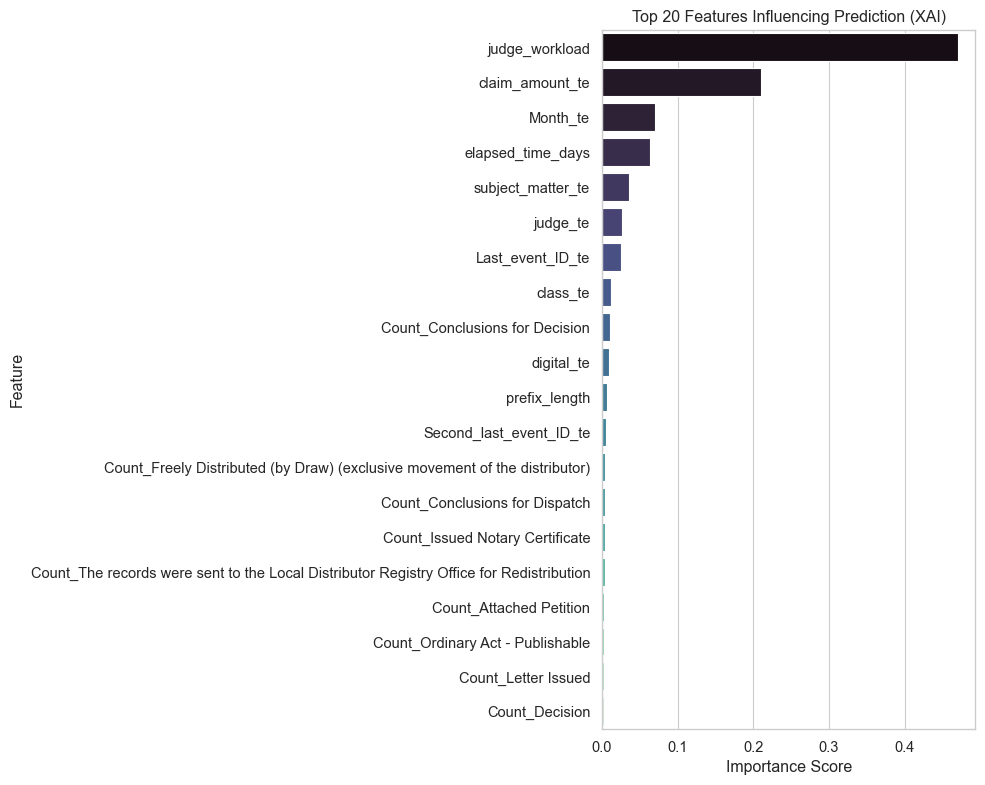
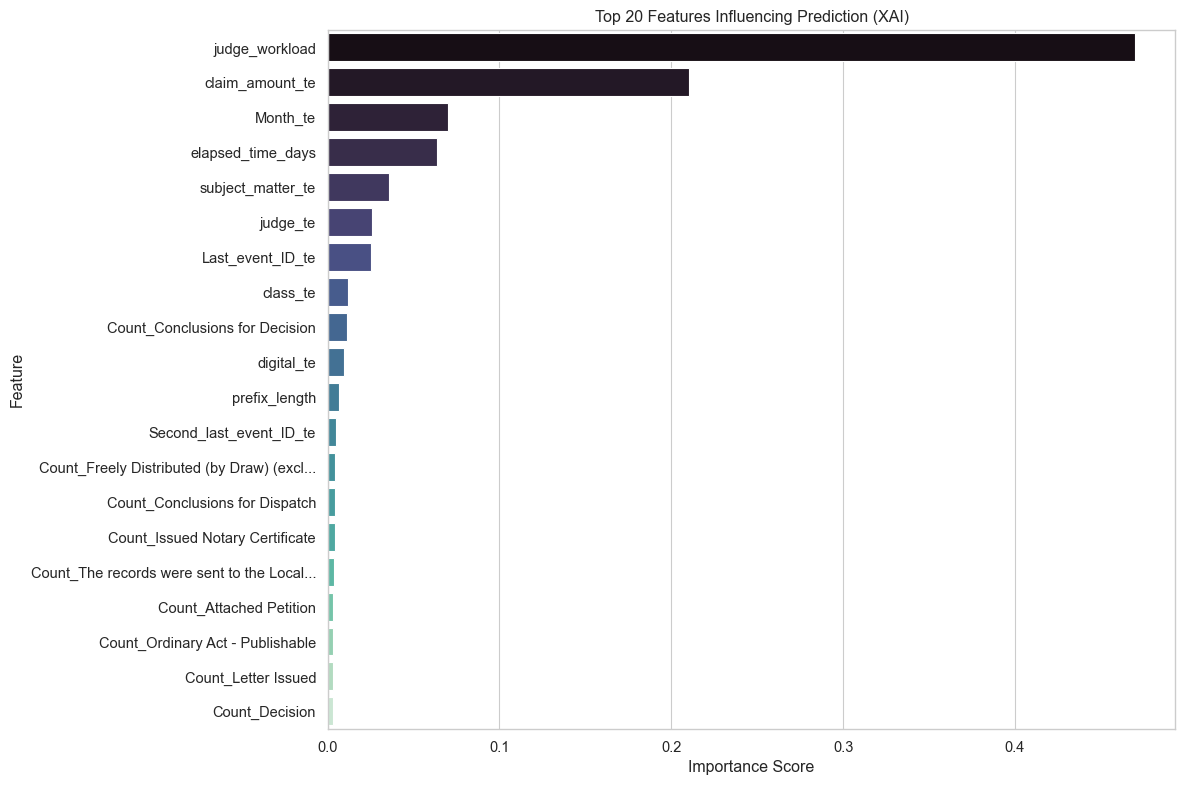
Truncate long feature names in SHAP and Importance plots to improve visualization readability

diff --git a/src/analysis/visualizer.py b/src/analysis/visualizer.py
@@ -104,7 +104,12 @@ def plot_feature_importance(model, X_test):
     feat_imp = pd.DataFrame({'feature': features, 'importance': importances})
     feat_imp = feat_imp.sort_values(by='importance', ascending=False).head(20)
 
-    plt.figure(figsize=(10, 8))
+    max_label_length = 40
+    feat_imp['feature'] = feat_imp['feature'].apply(
+        lambda x: (x[:max_label_length] + '...') if len(x) > max_label_length else x
+    )
+
+    plt.figure(figsize=(12, 8))
     sns.barplot(data=feat_imp, x='importance', y='feature', hue='feature', legend=False, palette='mako')
     plt.title('Top 20 Features Influencing Prediction (XAI)')
     plt.xlabel('Importance Score')
@@ -162,14 +167,23 @@ def plot_shap_summary(model, X_test):
         X_model_data = X_test.drop(columns=['predicted_remaining'], errors='ignore')
 
     # Subsample for speed to prevent memory/computation hangs
-    X_sample = X_model_data.sample(n=min(1000, len(X_model_data)), random_state=42)
+    X_sample = X_model_data.sample(n=min(1000, len(X_model_data)), random_state=42).copy()
+
+    # FIX: Truncate long feature names so they don't squeeze the plot
+    max_label_length = 40
+    truncated_columns = [
+        (col[:max_label_length] + '...') if len(col) > max_label_length else col
+        for col in X_sample.columns
+    ]
+    X_sample.columns = truncated_columns
 
     try:
         explainer = shap.Explainer(model)
         shap_values = explainer(X_sample)
 
-        plt.figure(figsize=(10, 8))
-        shap.summary_plot(shap_values, X_sample, show=False, max_display=15)
+        # Force a wider figure explicitly in SHAP
+        shap.summary_plot(shap_values, X_sample, show=False, max_display=15, plot_size=(12, 8))
+
         plt.title('SHAP Summary: Feature Impact on Duration')
         _save_plot("shap_summary.png")
     except Exception as e:
